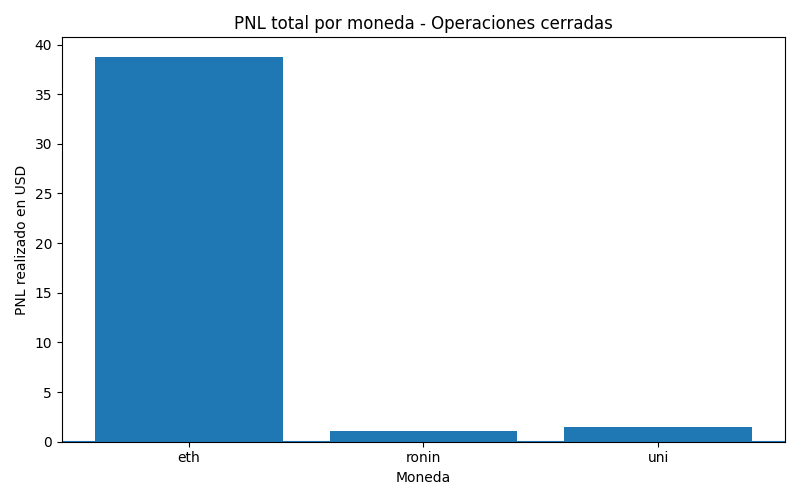
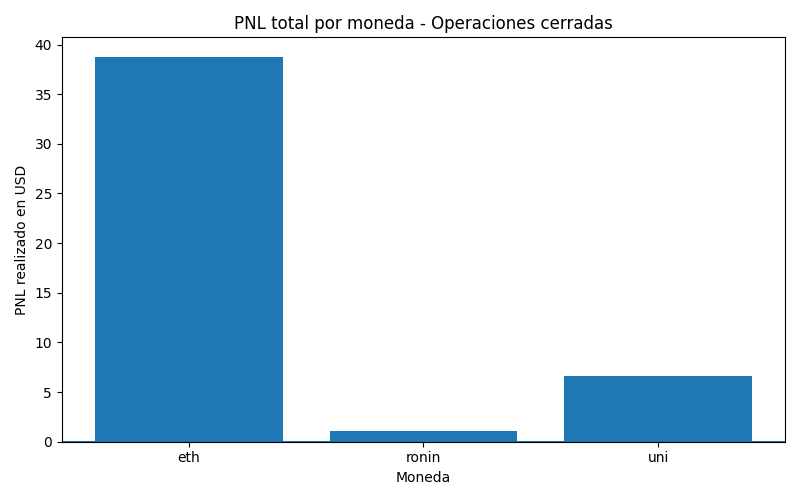
Agregando mas columnas en guardar datos para operaciones cerradas

Changed region(s): [[0.6875, 0.75, 0.9375, 0.87]]

diff --git a/operacion-Compra-Venta.py b/operacion-Compra-Venta.py
@@ -2,7 +2,7 @@ import pandas as pd
 import os
 from datetime import datetime
 import matplotlib.pyplot as plt
-from openpyxl.drawing.image import Image
+
 
 
 archivo = "operaciones_crypto2.xlsx"
@@ -153,11 +153,47 @@ def crear_grafico_pnl_por_moneda(compras, ventas):
 
     return nombre_grafico
 
+
+
 def guardar_datos(compras, ventas):
     operaciones_abiertas = compras[compras["Estado"] == "ABIERTA"].copy()
+
     operaciones_cerradas = compras[compras["Estado"] == "CERRADA"].copy()
+
+    if not operaciones_cerradas.empty and not ventas.empty:
+        ventas_para_cerradas = ventas[[
+            "ID compra",
+            "Dólares vendidos",
+            "Precio venta",
+            "Costo proporcional",
+            "PNL realizado"
+        ]].copy()
+
+        operaciones_cerradas = operaciones_cerradas.merge(
+            ventas_para_cerradas,
+            left_on="ID",
+            right_on="ID compra",
+            how="left"
+        )
+
+        operaciones_cerradas = operaciones_cerradas[[
+            "ID",
+            "Nombre",
+            "Fecha de compra",
+            "Dólares comprados",
+            "Dólares vendidos",
+            "Precio de compra",
+            "Precio venta",
+            "Cantidad comprada",
+            "Cantidad vendida total",
+            "Cantidad restante",
+            "Costo proporcional",
+            "PNL realizado",
+            "Estado"
+        ]]
+
     resumen_por_moneda = crear_resumen_por_moneda(compras, ventas)
-    grafico_pnl_por_moneda = crear_grafico_pnl_por_moneda(compras, ventas)
+    crear_grafico_pnl_por_moneda(compras, ventas)
 
     with pd.ExcelWriter(archivo, engine="openpyxl") as writer:
         compras.to_excel(writer, sheet_name="Compras", index=False)
@@ -166,10 +202,6 @@ def guardar_datos(compras, ventas):
         operaciones_cerradas.to_excel(writer, sheet_name="Operaciones cerradas", index=False)
         resumen_por_moneda.to_excel(writer, sheet_name="Resumen por moneda", index=False)
 
-        if grafico_pnl_por_moneda is not None:
-            hoja_grafico = writer.book.create_sheet("Gráfico PNL por moneda")
-            imagen = Image(grafico_pnl_por_moneda)
-            hoja_grafico.add_image(imagen, "B2")
 
 def convertir_columnas_compras(compras):
     columnas_float = [